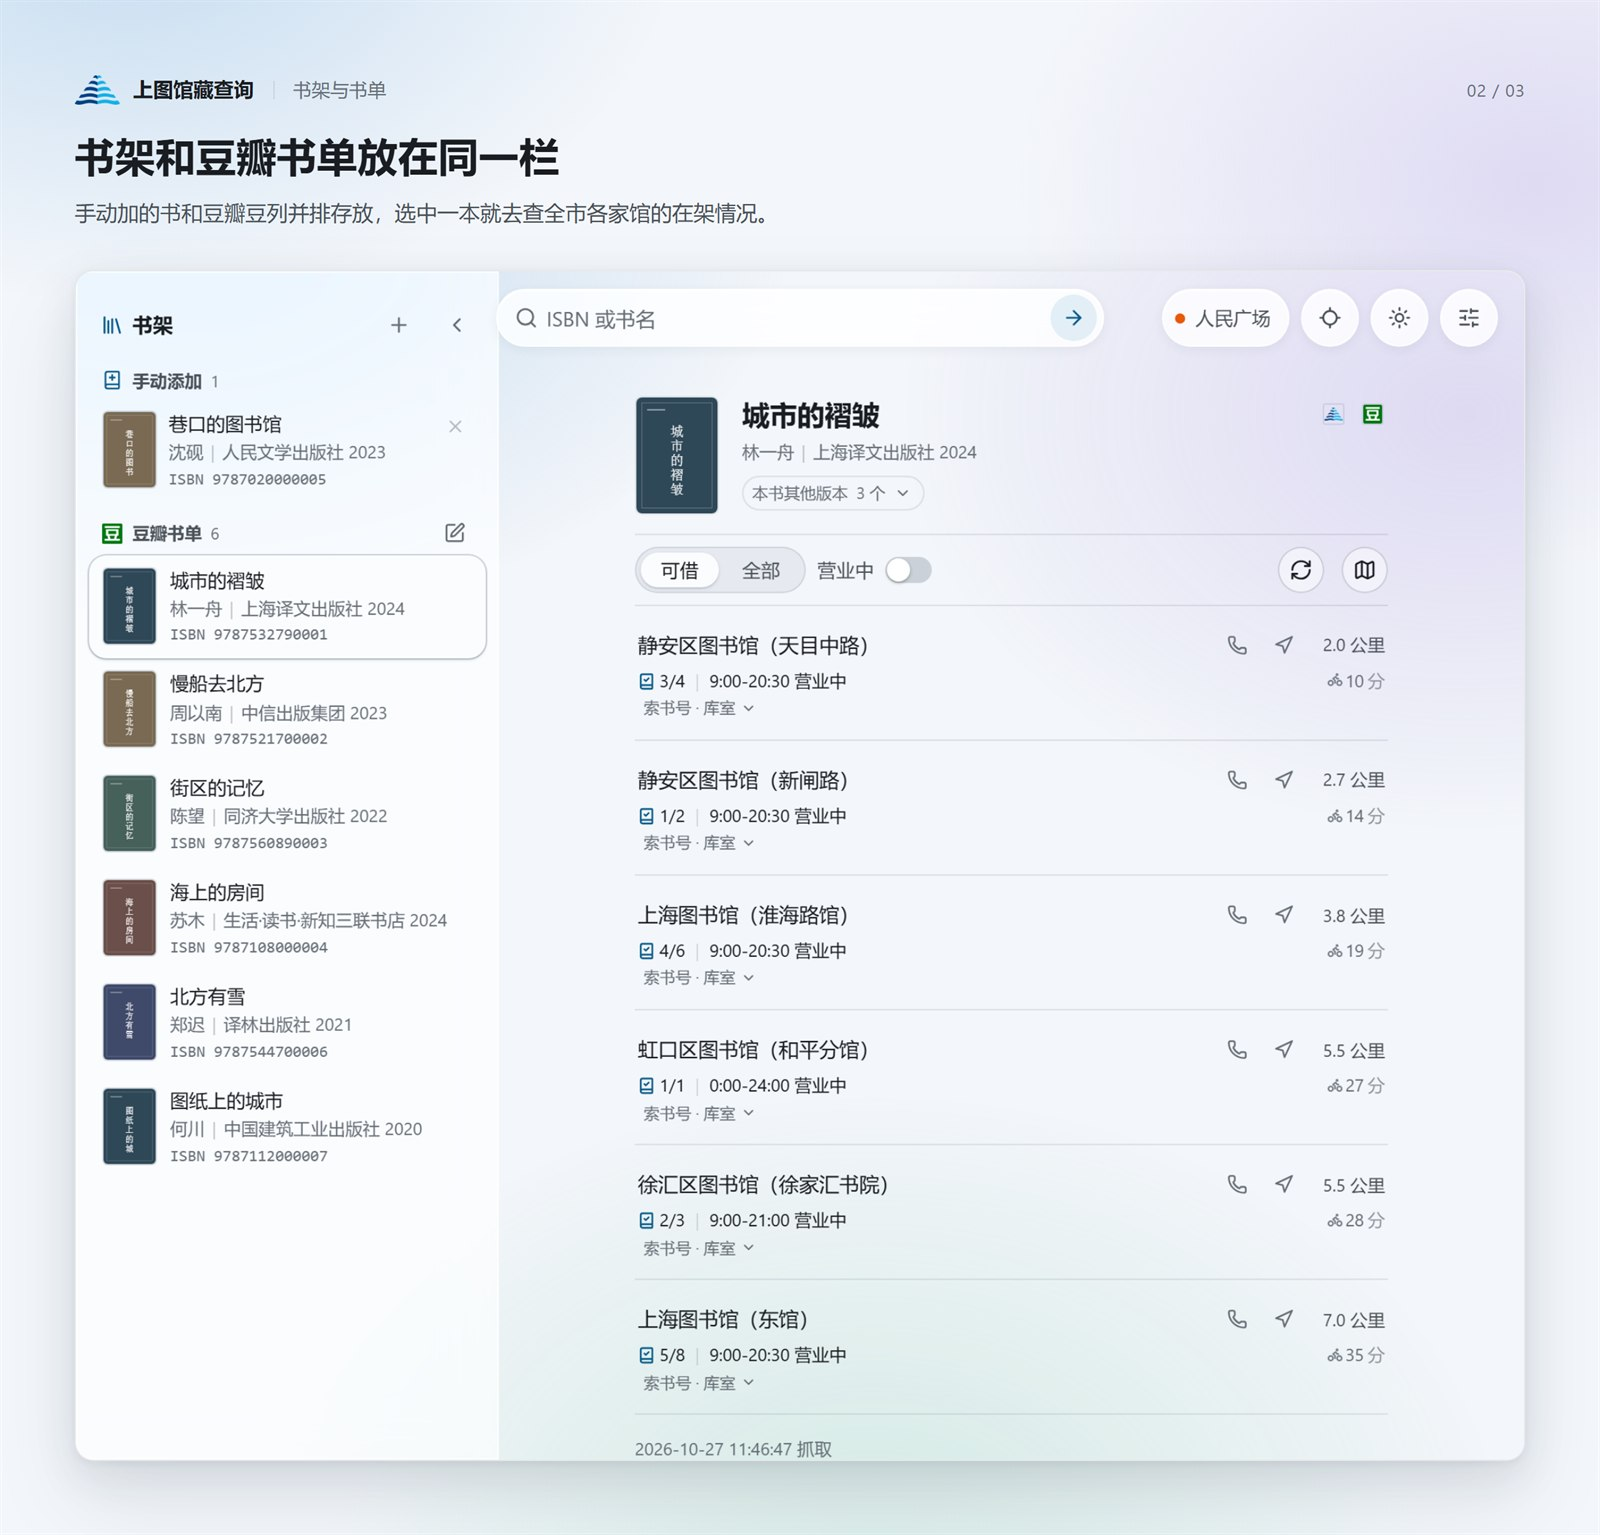
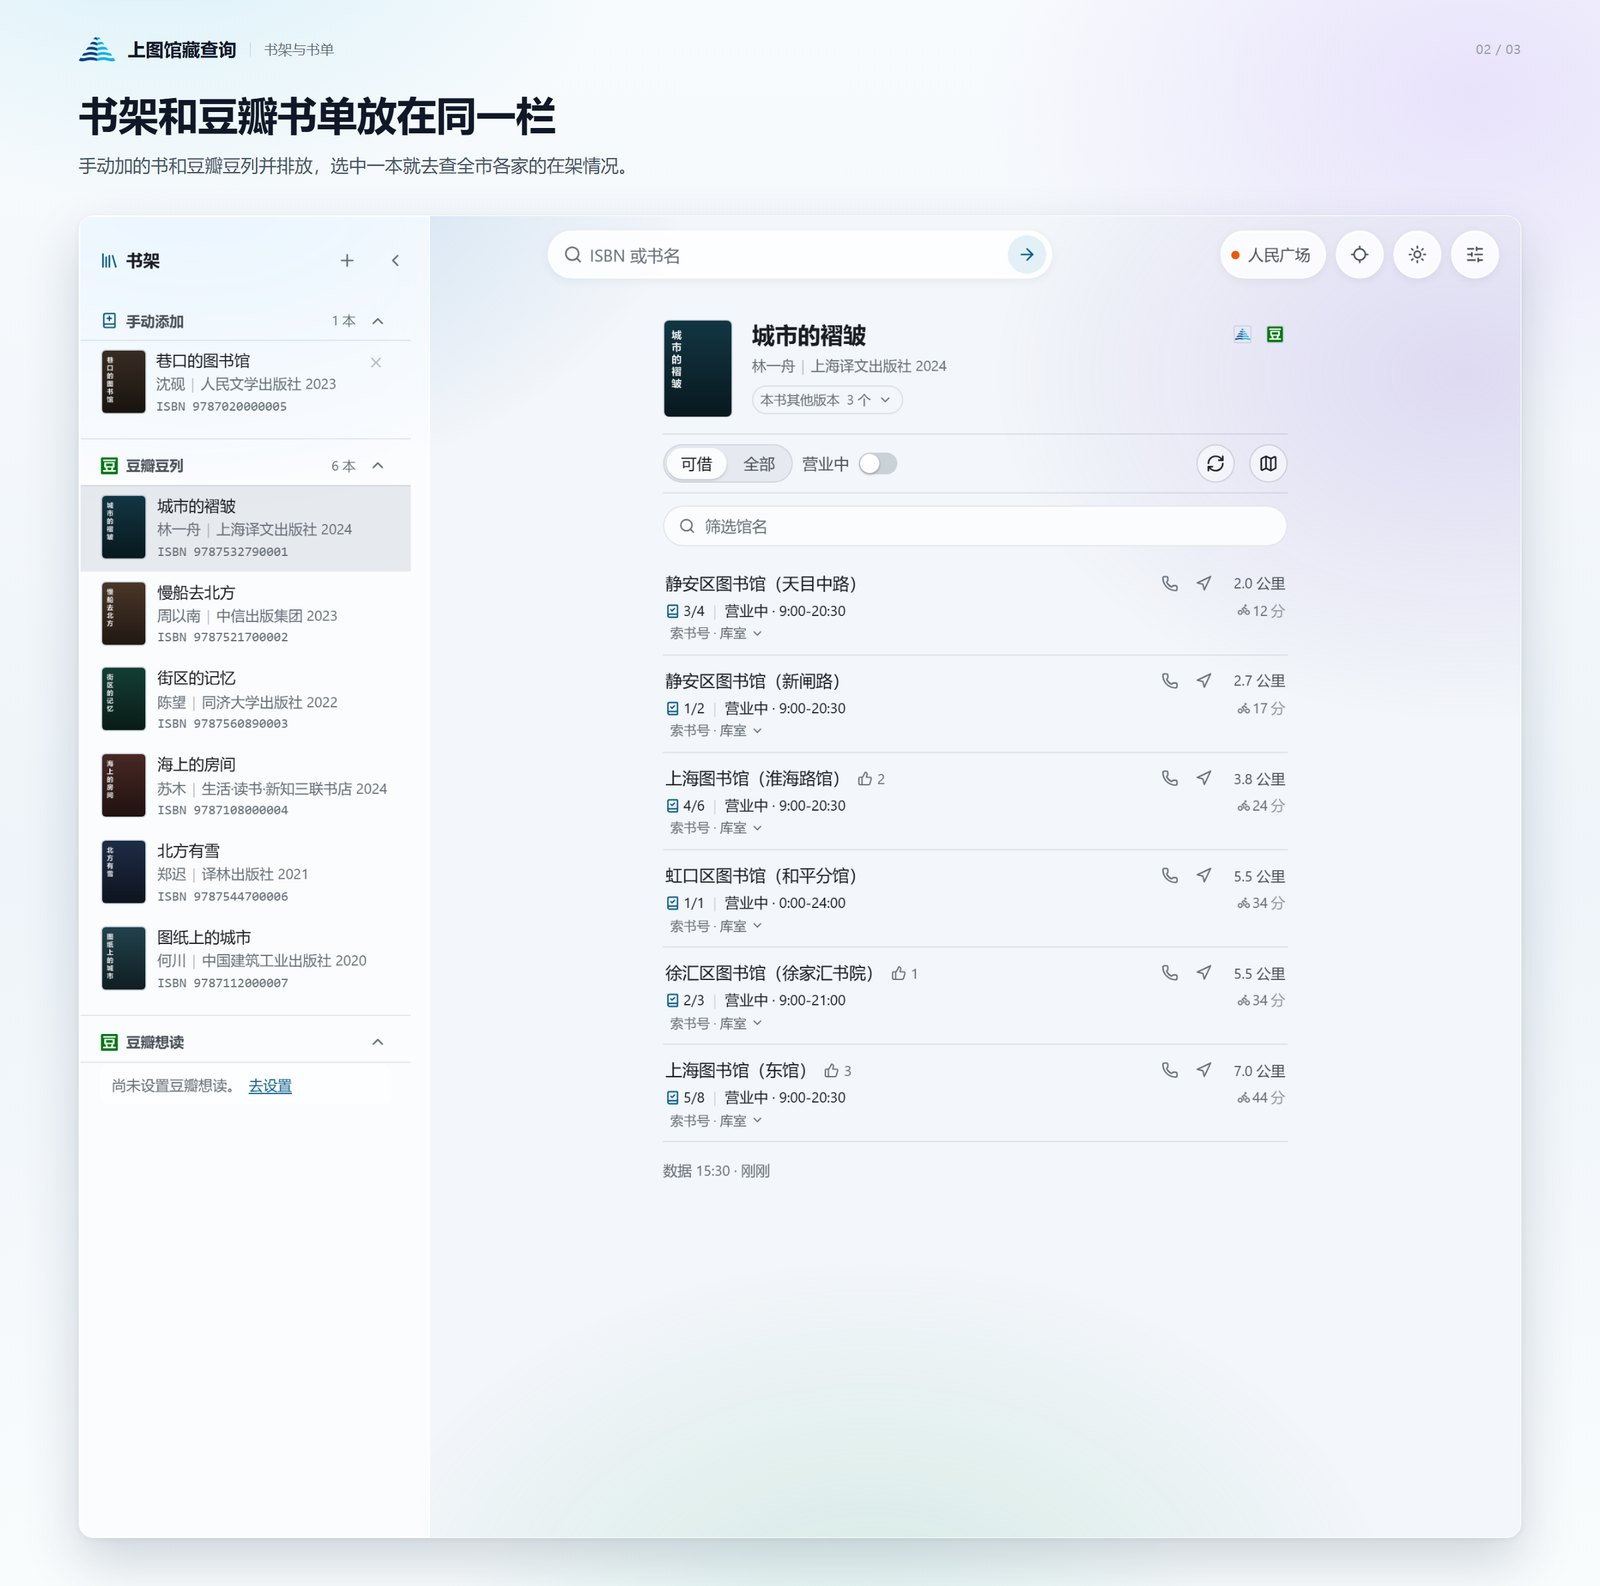
发版 0.2.0：介绍图补上馆评分，官网写明赞与净额的口径

diff --git a/docs/index.html b/docs/index.html
@@ -333,7 +333,7 @@
         </div>
         <div>
           <div class="shot">
-            <img src="feature/01-hero.jpg" width="1600" height="1006"
+            <img src="feature/01-hero.jpg" width="1600" height="1030"
                  alt="上图馆藏查询界面：左侧是书架，中间是某一本书在各馆的在架数量与距离，右侧是标出各馆位置的地图。">
           </div>
         </div>
@@ -449,10 +449,16 @@ cd shlib-finder
           <div class="a"><p>免安装版只有 Windows，macOS / Linux 用源码运行；不想装 Python 的话，三个系统都能装浏览器插件，在豆瓣图书页直接看馆藏；手机连同一个 Wi-Fi 打开网址就能查，不用装 App。</p></div>
         </details>
         <details>
+          <summary>馆名旁边的赞和数字是什么？
+            <svg viewBox="0 0 24 24" fill="none" stroke="currentColor" stroke-width="2" stroke-linecap="round" stroke-linejoin="round" aria-hidden="true"><path d="m6 9 6 6 6-6"/></svg>
+          </summary>
+          <div class="a"><p>是对这家馆的喜爱程度，和具体哪本书无关：数字是净额（赞 − 不喜欢），只有至少 2 台不同设备赞过才出现；一家馆一天一票、投过不能改，「不喜欢」的次数本身不公开。赞和<span class="keep">「不喜欢」</span>目前只在浏览器插件里能投，本地版只显示数字，读不到就不显示。</p></div>
+        </details>
+        <details>
           <summary>书单和地址会上传吗？
             <svg viewBox="0 0 24 24" fill="none" stroke="currentColor" stroke-width="2" stroke-linecap="round" stroke-linejoin="round" aria-hidden="true"><path d="m6 9 6 6 6-6"/></svg>
           </summary>
-          <div class="a"><p>不会。程序跑在自己电脑上，不登录、不统计；查书时只连豆瓣、上图和高德，点<span class="keep">「检查更新」</span>才连 GitHub。</p></div>
+          <div class="a"><p>不会。程序跑在自己电脑上，不登录、不统计；查书时只连豆瓣、上图和高德，打开页面时读一次公开发布的馆评分结果（不带任何本机信息），点<span class="keep">「检查更新」</span>才连 GitHub。</p></div>
         </details>
         <details>
           <summary>可以自己改、自己打包吗？

diff --git a/README.md b/README.md
@@ -20,6 +20,8 @@
 - **查馆藏**：按 ISBN 查上图 + 全部分馆的逐册状态——在架 / 已借出、库室、索书号、借阅类型；同一本书的多个版本可以先选版本再查。
 - **按距离排**：479 个网点（馆、服务点）带地址、电话、开放时间；离你最近的在最上面，10 公里内还会算一条骑行时间。
 - **地图**：结果编号和地图标记一一对应，点标记看馆、点列表看图钉，滚轮无级缩放。
+- **馆评分**：馆名右边一枚赞和净额——赞 / 不喜欢说的是你对这家馆的喜爱程度，和具体哪本书无关。
+  数字要等至少 2 台不同设备赞过才出现，本地版只显示不提交；投是在浏览器扩展里。
 - **手机**：同一 Wi-Fi 下手机浏览器打开就能用，不用装 App；手机端只读，改配置还是回电脑。
 - **浏览器扩展**：不想开本地服务、只想在豆瓣页面上顺手看一眼这本书上海谁家有，
   装 [Microsoft Edge 加载项](https://microsoftedge.microsoft.com/addons/detail/%E4%B8%8A%E5%9B%BE%E9%A6%86%E8%97%8F%E6%9F%A5%E8%AF%A2/kpdbanjmlkfdaebckkjojfbaheojmjok)
